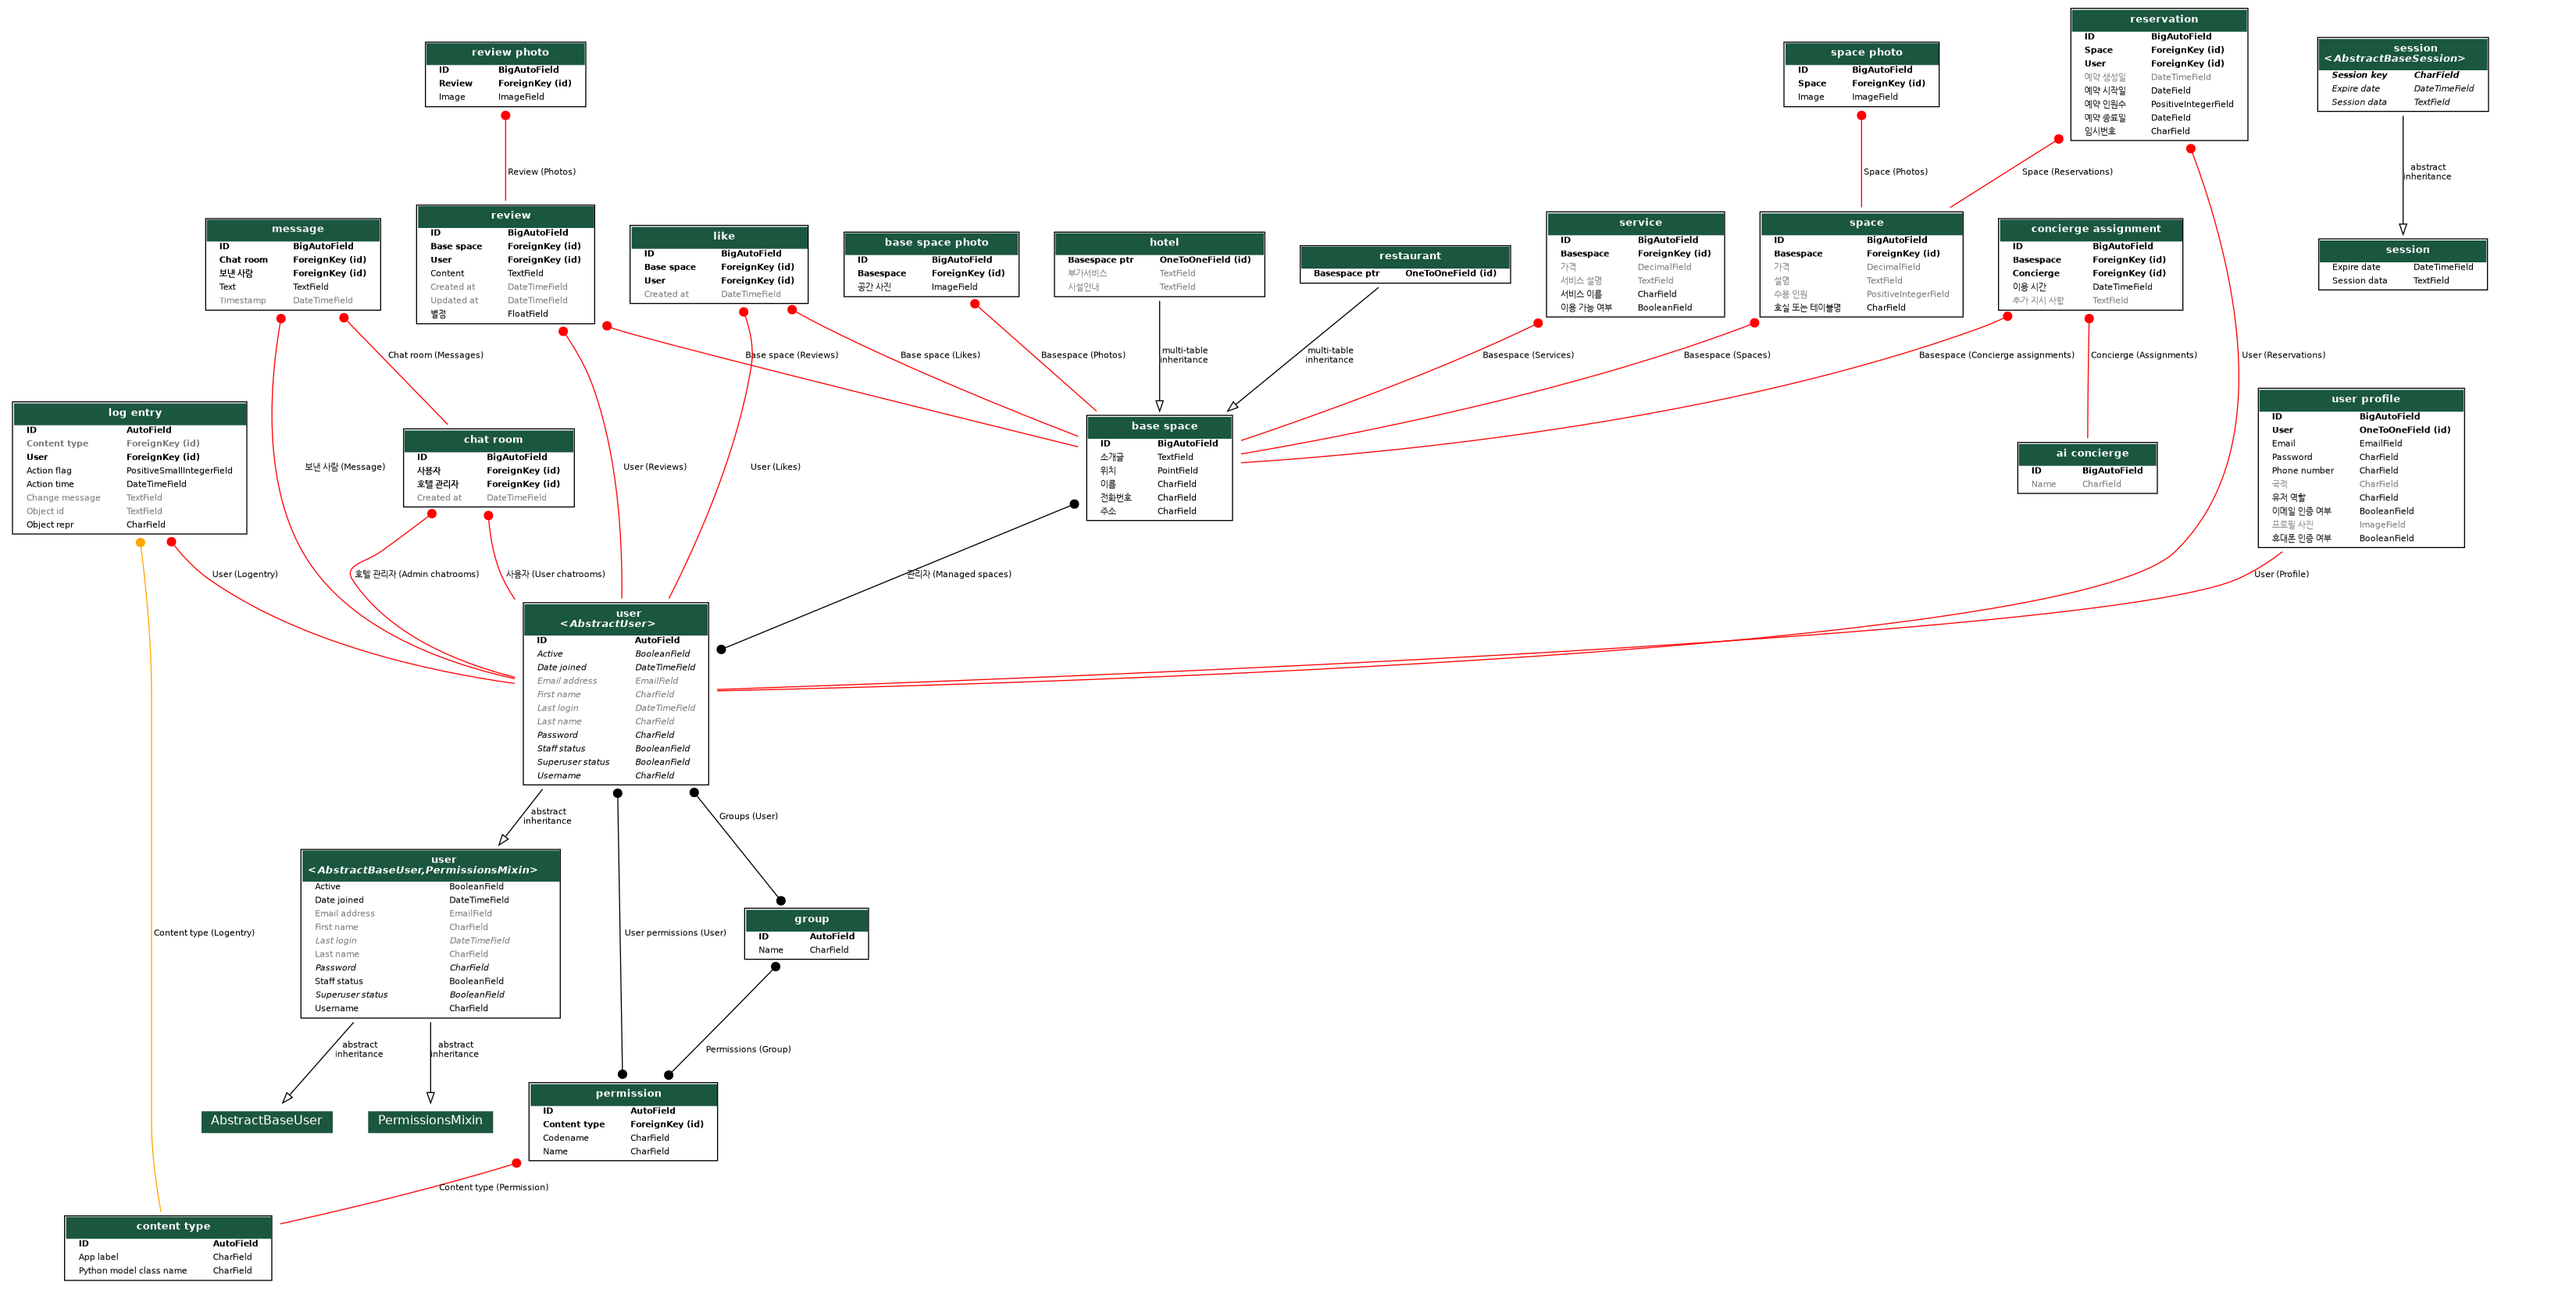
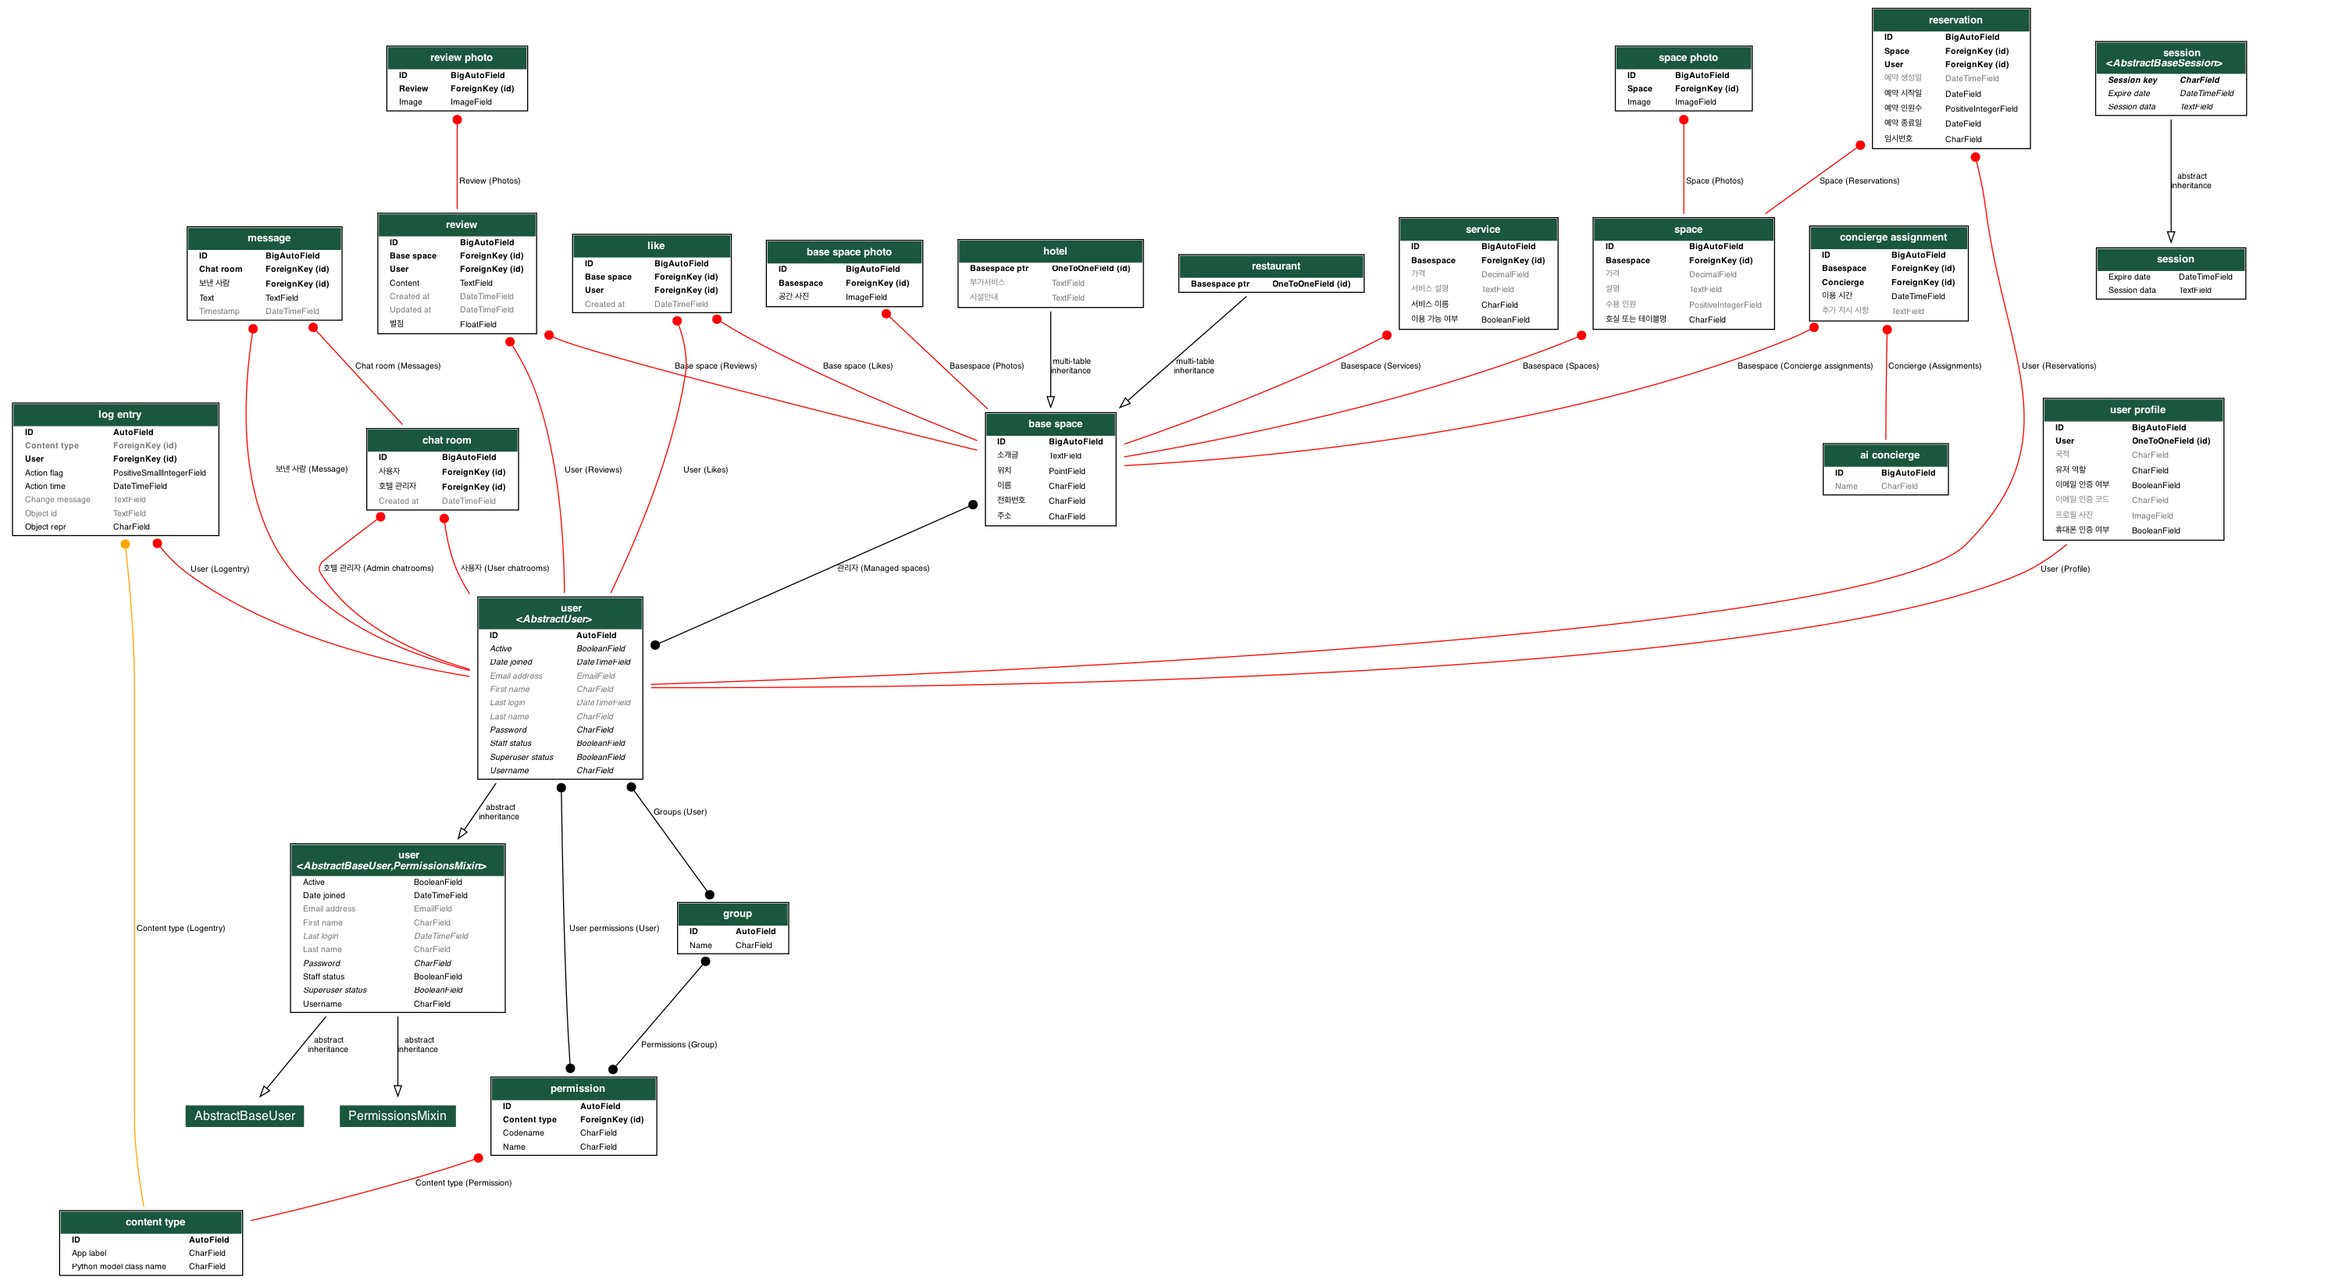
Enhance user authentication and permissions; add email-based login, update serializers, and improve hotel registration access control

diff --git a/accounts/views.py b/accounts/views.py
@@ -8,9 +8,11 @@ from rest_framework.response import Response
 from rest_framework import status
 from rest_framework.permissions import IsAuthenticated, IsAdminUser, AllowAny
 from rest_framework_simplejwt.tokens import RefreshToken
+from rest_framework_simplejwt.views import TokenObtainPairView
+
 from accounts.models import UserProfile
-from .serializers import UserRegistrationSerializer, SpaceManagerAssignSerializer
-from rest_framework.generics import get_object_or_404
+from .serializers import UserRegistrationSerializer, SpaceManagerAssignSerializer, UserDetailSerializer, EmailTokenObtainPairSerializer
+from rest_framework.generics import get_object_or_404, RetrieveAPIView
 from rest_framework.parsers import MultiPartParser, FormParser
 import random
 from hotel_admin import settings
@@ -29,7 +31,8 @@ class UserRegistrationView(APIView):
                     type=openapi.TYPE_OBJECT,
                     properties={
                         "id": openapi.Schema(type=openapi.TYPE_INTEGER, description="유저 ID"),
-                        "username": openapi.Schema(type=openapi.TYPE_STRING, description="사용자 이름"),
+                        "first_name": openapi.Schema(type=openapi.TYPE_STRING, description="사용자 이름"),
+                        "last_name": openapi.Schema(type=openapi.TYPE_STRING, description="사용자 성"),
                         "email": openapi.Schema(type=openapi.TYPE_STRING, description="이메일"),
                         "access_token": openapi.Schema(type=openapi.TYPE_STRING, description="액세스 토큰"),
                         "refresh_token": openapi.Schema(type=openapi.TYPE_STRING, description="리프레시 토큰"),
@@ -84,6 +87,8 @@ class UserRegistrationView(APIView):
                 }, status=status.HTTP_201_CREATED)
 
             return Response(serializer.errors, status=status.HTTP_400_BAD_REQUEST)
+
+
 
 
 class ResendEmailVerificationView(APIView):
@@ -158,6 +163,13 @@ class EmailVerificationView(APIView):
             return Response({"message": "인증번호가 올바르지 않습니다."}, status=status.HTTP_400_BAD_REQUEST)
 
 
+class LoggedInUserDetailView(RetrieveAPIView):
+    serializer_class = UserDetailSerializer
+    permission_classes = [IsAuthenticated]
+
+    def get_object(self):
+        return self.request.user
+
 
 class AssignSpaceManagerView(APIView):
     permission_classes = [IsAuthenticated, IsAdminUser]  # 어드민만 접근 가능
@@ -184,3 +196,30 @@ class AssignSpaceManagerView(APIView):
             return Response({"message": f"{user.username}님이 공간 관리자로 설정되었습니다."}, status=status.HTTP_200_OK)
 
         return Response(serializer.errors, status=status.HTTP_400_BAD_REQUEST)
+
+class EmailTokenObtainPairView(TokenObtainPairView):
+    serializer_class = EmailTokenObtainPairSerializer
+
+    @swagger_auto_schema(
+        operation_description="이메일과 비밀번호를 이용한 JWT 토큰 발급 API",
+        request_body=openapi.Schema(
+            type=openapi.TYPE_OBJECT,
+            properties={
+                'email': openapi.Schema(type=openapi.TYPE_STRING, description="이메일"),
+                'password': openapi.Schema(type=openapi.TYPE_STRING, format="password", description="비밀번호"),
+            },
+            required=['email', 'password']
+        ),
+        responses={
+            200: openapi.Schema(
+                type=openapi.TYPE_OBJECT,
+                properties={
+                    'access': openapi.Schema(type=openapi.TYPE_STRING, description="액세스 토큰"),
+                    'refresh': openapi.Schema(type=openapi.TYPE_STRING, description="리프레시 토큰"),
+                }
+            ),
+            400: "잘못된 요청"
+        }
+    )
+    def post(self, request, *args, **kwargs):
+        return super().post(request, *args, **kwargs)

diff --git a/accounts/serializers.py b/accounts/serializers.py
@@ -1,5 +1,8 @@
 from django.contrib.auth.models import User
 from rest_framework import serializers
+from rest_framework.validators import UniqueValidator
+from rest_framework_simplejwt.serializers import TokenObtainPairSerializer
+
 from accounts.models import UserProfile, UserRole  # UserProfile 모델 사용
 
 class UserProfileSerializer(serializers.ModelSerializer):
@@ -11,16 +14,23 @@ class UserProfileSerializer(serializers.ModelSerializer):
         ]
 
 class UserRegistrationSerializer(serializers.ModelSerializer):
+    email = serializers.EmailField(
+        required=True,
+        validators=[UniqueValidator(queryset=User.objects.all(), message="이미 등록된 이메일입니다.")]
+    )
     profile_picture = serializers.ImageField(required=False)
     nationality = serializers.CharField(max_length=100, required=False)
+    first_name = serializers.CharField(max_length=30, required=True)
+    last_name = serializers.CharField(max_length=30, required=True)
 
     class Meta:
         model = User
-        fields = ['username', 'email', 'password', 'profile_picture', 'nationality']
+        fields = ['email', 'password', 'profile_picture', 'nationality', 'first_name', 'last_name']
 
     def create(self, validated_data):
+        username = validated_data['first_name'] + ' ' + validated_data['last_name']
         user = User.objects.create_user(
-            username=validated_data['username'],
+            username=username,
             email=validated_data['email'],
             password=validated_data['password']
         )
@@ -43,3 +53,47 @@ class SpaceManagerAssignSerializer(serializers.ModelSerializer):
         instance.role = "SPACE_MANAGER"
         instance.save()
         return instance
+
+class UserProfileDetailSerializer(serializers.ModelSerializer):
+    class Meta:
+        model = UserProfile
+        fields = ['profile_picture', 'nationality', 'email_verified', 'phone_verified']
+
+class UserDetailSerializer(serializers.ModelSerializer):
+    profile = UserProfileDetailSerializer()
+
+    class Meta:
+        model = User
+        fields = ['id', 'username', 'email', 'profile']
+
+
+class EmailTokenObtainPairSerializer(TokenObtainPairSerializer):
+    email = serializers.EmailField(required=True)
+    password = serializers.CharField(write_only=True)
+
+    def __init__(self, *args, **kwargs):
+        super().__init__(*args, **kwargs)
+        # 기본 serializer에 있는 username 필드를 제거합니다.
+        self.fields.pop('username', None)
+
+    def validate(self, attrs):
+        email = attrs.get("email")
+        password = attrs.get("password")
+
+        if not email or not password:
+            raise serializers.ValidationError("이메일과 비밀번호를 입력해주세요.")
+
+        try:
+            # 이메일은 회원가입 시 UniqueValidator로 중복검증했으므로 단일 사용자만 존재합니다.
+            user = User.objects.get(email=email)
+        except User.DoesNotExist:
+            raise serializers.ValidationError("해당 이메일의 사용자가 존재하지 않습니다.")
+
+        if not user.check_password(password):
+            raise serializers.ValidationError("비밀번호가 올바르지 않습니다.")
+
+        refresh = self.get_token(user)
+        return {
+            "refresh": str(refresh),
+            "access": str(refresh.access_token),
+        }

diff --git a/spaces/views.py b/spaces/views.py
@@ -2,13 +2,15 @@ from rest_framework.views import APIView
 from rest_framework.response import Response
 from rest_framework import status
 from rest_framework.permissions import IsAuthenticated
+
+from accounts.permissions import IsAdminOrManager
 from .serializers import HotelCreateSerializer
 from drf_yasg.utils import swagger_auto_schema
 from drf_yasg import openapi
 
 
 class HotelCreateView(APIView):
-    permission_classes = [IsAuthenticated]  # 로그인한 유저만 접근 가능
+    permission_classes = [IsAuthenticated, IsAdminOrManager]  # 로그인한 유저만 접근 가능
 
     @swagger_auto_schema(
         operation_description="새로운 호텔을 등록하는 API (관리자만 가능)",
@@ -32,17 +34,18 @@ class HotelCreateView(APIView):
                 ),
             ),
             400: openapi.Response(description="잘못된 요청"),
-            403: openapi.Response(description="권한 없음 (호텔 매니저만 가능)"),
+            403: openapi.Response(description="권한 없음 (매니저만 가능)"),
         },
     )
     def post(self, request):
         """ 호텔 등록 API (Swagger 입력 가능) """
-        if request.user.profile.role != "SPACE_MANAGER":
-            return Response({"error": "호텔 매니저만 등록할 수 있습니다."}, status=status.HTTP_403_FORBIDDEN)
+        if request.user.profile.role not in ["SPACE_MANAGER", "SUPER_ADMIN"]:
+            return Response({"error": "매니저만 등록할 수 있습니다."}, status=status.HTTP_403_FORBIDDEN)
 
         serializer = HotelCreateSerializer(data=request.data)
         if serializer.is_valid():
             hotel = serializer.save()
+            hotel.managers.add(request.user)
             return Response({
                 "id": hotel.id,
                 "name": hotel.name,
@@ -55,3 +58,4 @@ class HotelCreateView(APIView):
                 "facilities": hotel.facilities,
             }, status=status.HTTP_201_CREATED)
         return Response(serializer.errors, status=status.HTTP_400_BAD_REQUEST)
+

diff --git a/accounts/urls.py b/accounts/urls.py
@@ -4,14 +4,16 @@ from rest_framework_simplejwt.views import (
     TokenRefreshView,  # 액세스 토큰 갱신
     TokenVerifyView,  # JWT 토큰 유효성 검사
 )
-from .views import UserRegistrationView, AssignSpaceManagerView, EmailVerificationView, ResendEmailVerificationView
+from .views import UserRegistrationView, AssignSpaceManagerView, EmailVerificationView, ResendEmailVerificationView, \
+    LoggedInUserDetailView, EmailTokenObtainPairView
 
 urlpatterns = [
     path("register/", UserRegistrationView.as_view(), name="user-register"),
     path("resend-email-verification/", ResendEmailVerificationView.as_view(), name="resend-email-verification"),
     path("email-verify/", EmailVerificationView.as_view(), name="email-verify"),
     path("assign-space-manager/<int:user_id>/", AssignSpaceManagerView.as_view(), name="assign-hotel-manager"),
-    path("token/", TokenObtainPairView.as_view(), name="token_obtain_pair"),  # JWT 로그인
+    path("login/", EmailTokenObtainPairView.as_view(), name="로그인"),
     path("token/refresh/", TokenRefreshView.as_view(), name="token_refresh"),  # 액세스 토큰 갱신
     path("token/verify/", TokenVerifyView.as_view(), name="token_verify"),  # 토큰 검증
+    path('user/me/', LoggedInUserDetailView.as_view(), name='내 정보 조회'),
 ]

diff --git a/accounts/permissions.py b/accounts/permissions.py
@@ -1,10 +1,12 @@
 # permissions.py
-from rest_framework.permissions import BasePermission
+from rest_framework.permissions import BasePermission, IsAdminUser
 
-class IsManager(BasePermission):
+
+class IsAdminOrManager(BasePermission):
     def has_permission(self, request, view):
-        return request.user and request.user.is_authenticated and request.user.profile.role == "HOTEL_MANAGER"
-
+        return request.user and request.user.is_authenticated and (
+            request.user.profile.role == "SPACE_MANAGER" or IsAdminUser().has_permission(request, view)
+        )
 class IsOwnerOrReadOnly(BasePermission):
     def has_object_permission(self, request, view, obj):
         if request.method in ['GET', 'HEAD', 'OPTIONS']:

diff --git a/bookings/views.py b/bookings/views.py
@@ -55,6 +55,10 @@ class CheckInCreateView(APIView):
         check_out_date = request.data.get('check_out_date')
         people = request.data.get('people', 1)  # 예약 인원수, 기본값 1
 
+        """
+            임시코드를 발급해서 예약에 넣고 
+        """
+
         # user_id가 있으면 기존 유저 조회, 없으면 임시 유저 생성
         if user_id:
             user = get_object_or_404(User, id=user_id)
